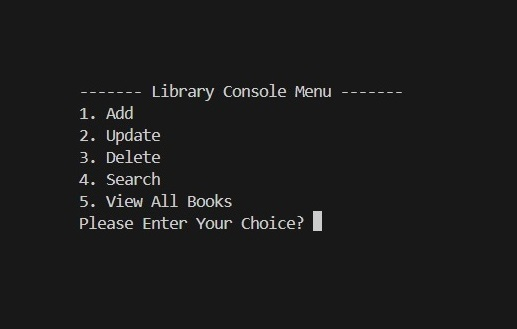
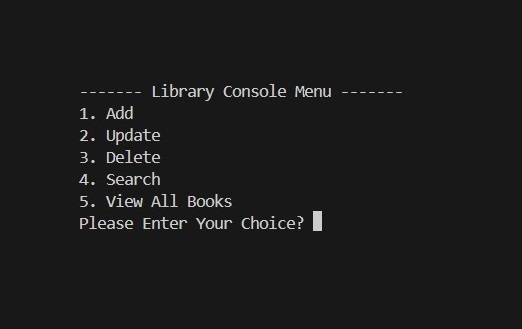
fix: project section image resizing

Changed region(s): [[0.1547, 0.3951, 0.6499, 0.6991], [0.2785, 0.2432, 0.6499, 0.304], [0.1547, 0.304, 0.2785, 0.3647]]

diff --git a/styles.css b/styles.css
@@ -1,9 +1,9 @@
 :root {
   --branding-color: #55dce6;
   --font-color: lightgrey;
-  --h2-size: 2rem;
+  --h2-size: 1.7rem;
   --h2-size-mobile: 1.5rem;
-  --p-size: 1.12rem;
+  --p-size: 0.95rem;
   --p-size-mobile: 0.93rem;
   --title-font: "Epilogue", sans-serif;
   --p-font: "Sora", sans-serif;
@@ -127,7 +127,7 @@ body {
 
 .outer-headings {
   font-family: var(--p-font);
-  padding-left: 6rem;
+  padding-left: 5rem;
   padding-top: 13rem;
   justify-content: center;
   color: var(--branding-color);
@@ -135,7 +135,7 @@ body {
 }
 
 .outer-headings h2 {
-  font-size: 1.8rem;
+  font-size: 1.6rem;
   font-weight: 200;
 }
 
@@ -144,7 +144,7 @@ body {
   color: white;
   font-weight: 700;
   font-style: normal;
-  font-size: 11rem;
+  font-size: 9rem;
   margin: 1.5rem 0 0 0;
 }
 
@@ -153,7 +153,7 @@ body {
   color: white;
   font-weight: 700;
   font-style: normal;
-  font-size: 13rem;
+  font-size: 11rem;
   margin: -1.5rem 0 0 0;
 }
 
@@ -404,7 +404,7 @@ body {
 .skills-second-column span {
   font-family: var(--p-font);
   font-weight: 300;
-  font-size: 0.95rem;
+  font-size: 0.85rem;
 }
 
 @media (max-width: 1200px) {
@@ -494,22 +494,23 @@ body {
 
 .image {
   background-size: cover;
+  background-position: center;
+  background-repeat: no-repeat;
   object-fit: cover;
-  object-position: center;
   height: 20rem;
   border-radius: 1rem;
 }
 
 .image1 {
-  background-image: url("/Work-Images/work-placeholder.webp");
+  background-image: url("/p2-web-dev-portfolio/Work-Images/work-placeholder.webp");
 }
 .proj-1 {
-  background-image: url("/Work-Images/p1-img.jpg");
+  background-image: url("/p2-web-dev-portfolio/Work-Images/p1-img.jpg");
 }
 
 .title {
   color: white;
-  font-size: 1.5rem;
+  font-size: 1.3rem;
   line-height: 1.75rem;
   font-weight: 700;
   font-style: var(--title-font);
@@ -520,7 +521,7 @@ body {
   margin-top: 0.5rem;
   font-family: var(--p-font);
   font-weight: 300;
-  font-size: 0.9rem;
+  font-size: 0.8rem;
   color: var(--font-color);
   margin: 0.5rem;
 }
